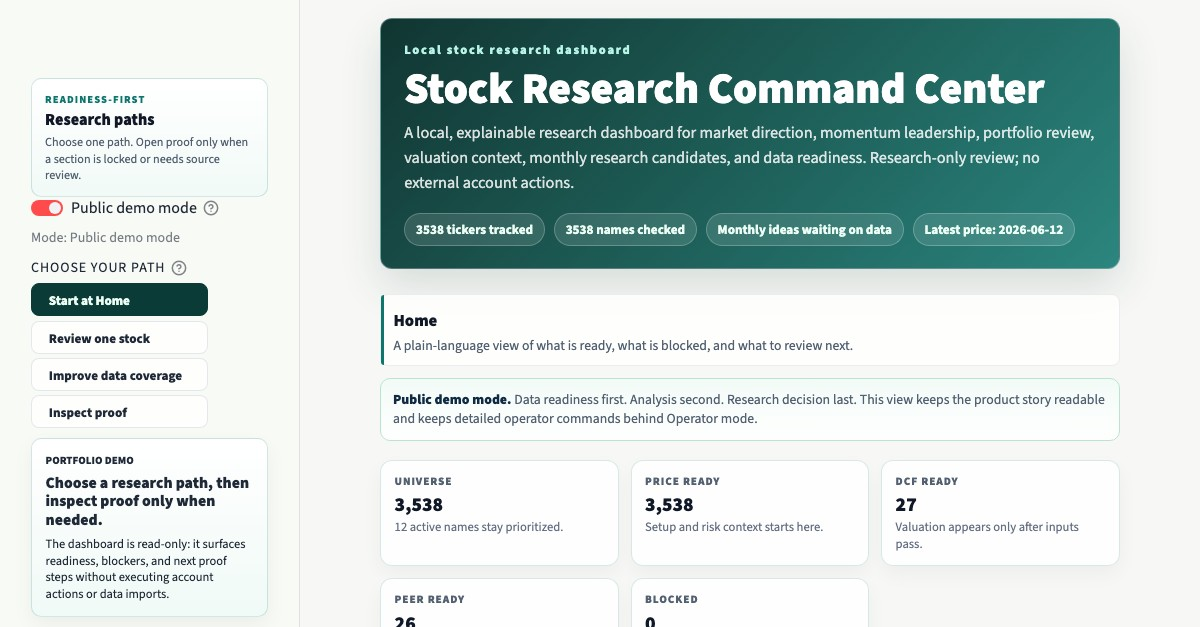
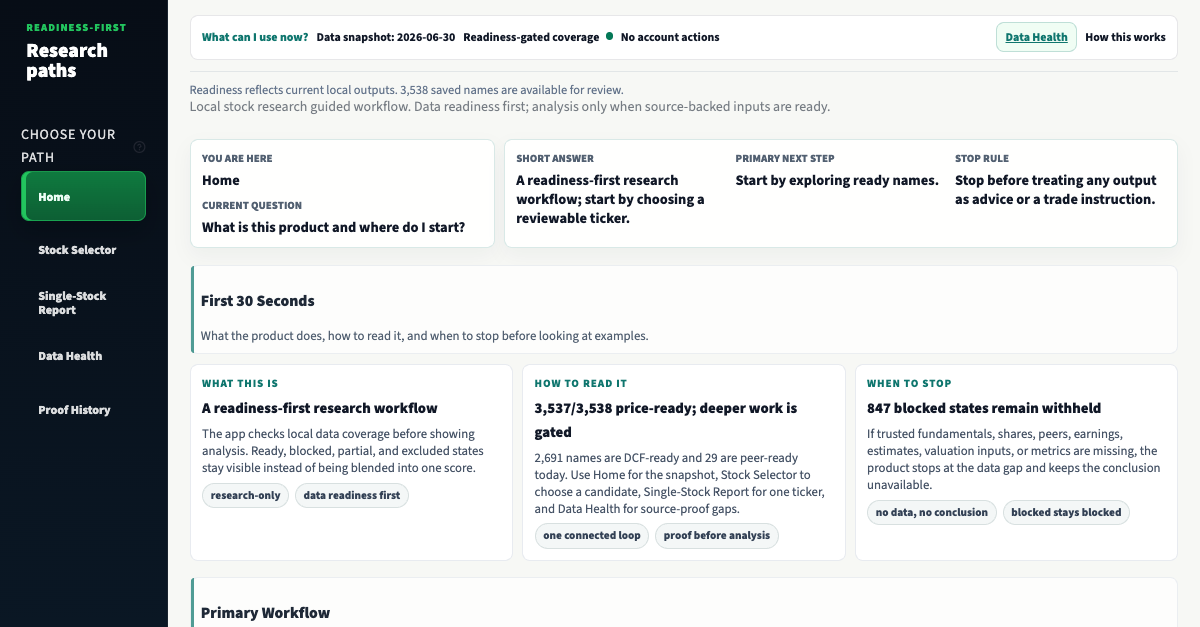
Refresh public share preview package

diff --git a/tests/test_browser_qa_evidence.py b/tests/test_browser_qa_evidence.py
@@ -63,7 +63,7 @@ def test_browser_qa_evidence_rows_keep_routes_assets_and_boundaries_visible(tmp_
             name="Public dashboard",
             path=Path("docs/assets/linkedin-public-dashboard.png"),
             route="http://localhost:8501/?mode=public",
-            expected_markers=("research-loop-strip", "Public visitor mode"),
+            expected_markers=("research-loop-strip", "What can I use now?"),
             min_width=1200,
             min_height=600,
             use="LinkedIn thumbnail.",
@@ -77,6 +77,7 @@ def test_browser_qa_evidence_rows_keep_routes_assets_and_boundaries_visible(tmp_
     assert rows[0]["Dimensions"].startswith("1200x627")
     assert "localhost:8501/?mode=public" in rendered
     assert "research-loop-strip" in rendered
+    assert "what can i use now?" in rendered
     assert "linkedin thumbnail" in rendered
     assert "buy" not in rendered
     assert "sell" not in rendered
@@ -92,7 +93,7 @@ def test_browser_qa_evidence_verdict_blocks_missing_or_small_assets(tmp_path):
             name="Small asset",
             path=Path("docs/assets/small.png"),
             route="http://localhost:8501/?mode=public",
-            expected_markers=("Public visitor mode",),
+            expected_markers=("What can I use now?",),
             min_width=1200,
             min_height=600,
             use="Too small for public evidence.",

diff --git a/src/browser_qa_evidence.py b/src/browser_qa_evidence.py
@@ -45,7 +45,7 @@ DEFAULT_BROWSER_QA_EVIDENCE: tuple[BrowserQaEvidence, ...] = (
         name="LinkedIn public dashboard thumbnail",
         path=Path("docs/assets/linkedin-public-dashboard.png"),
         route="http://localhost:8501/?mode=public",
-        expected_markers=("research-loop-strip", "Public visitor mode", "First 30 Seconds", "Primary Workflow"),
+        expected_markers=("research-loop-strip", "What can I use now?", "First 30 Seconds", "Primary Workflow"),
         min_width=1200,
         min_height=600,
         use="LinkedIn Featured and GitHub preview image.",
@@ -118,7 +118,7 @@ DEFAULT_BROWSER_QA_ROUTE_CHECKS: tuple[BrowserQaRouteCheck, ...] = (
     BrowserQaRouteCheck(
         name="Public visitor home",
         route="http://localhost:8501/?mode=public",
-        first_view_markers=("research-loop-strip", "Public visitor mode", "First 30 Seconds", "Primary Workflow"),
+        first_view_markers=("research-loop-strip", "What can I use now?", "First 30 Seconds", "Primary Workflow"),
         details_boundary="Operator commands and proof tables stay out of the first public view.",
         qa_focus="Visitor understands readiness-first workflow and research-only boundary in under 30 seconds.",
         stop_rule="Stop if the first view shows raw CSV tables, command-heavy copy, traceback text, or stale generated-thumbnail proof.",

diff --git a/docs/LINKEDIN_PROJECT_BRIEF.md b/docs/LINKEDIN_PROJECT_BRIEF.md
@@ -35,11 +35,33 @@ The most important design choice was refusing to present every ticker as complet
 
 GitHub: https://github.com/YuzeJ21/Stock-Analysis
 
-LinkedIn Featured title: `Stock Research Command Center - Readiness-First Research Dashboard`
+## Copy/Paste LinkedIn Profile Updates
 
-LinkedIn Featured description: `A Python and Streamlit portfolio project that checks data readiness before showing stock research workflows. It separates ready, blocked, partial, and excluded states, keeps proof steps visible, and stays research-only with no broker integration or auto-trading.`
+LinkedIn Featured title:
+
+`Stock Research Command Center | Readiness-First Stock Research Workflow`
+
+LinkedIn Featured description:
+
+`A Python + Streamlit portfolio project that checks stock data readiness before showing analysis. It separates ready, blocked, partial, and excluded states, keeps source-proof steps visible, and stays research-only with no broker integration, auto-trading, or investment advice.`
+
+About-section sentence:
+
+`I also build portfolio projects that turn messy data-readiness problems into guided product workflows, including a readiness-first Stock Research Command Center for equity research review.`
+
+Optional LinkedIn post:
+
+`I have been building a Stock Research Command Center as a portfolio project. The core idea is simple: data readiness first, analysis second, research decision last. The app checks whether stock data is ready before showing analysis, separates ready / partial / blocked / excluded states, and keeps source-proof steps visible when inputs are missing. It is built with Python and Streamlit, and stays research-only: no broker integration, no auto-trading, no order routing, and no investment advice. This project reflects the kind of data-product work I care about: turning messy coverage, quality, and workflow problems into a guided user experience.`
+
+What not to claim:
+
+- Do not call it an investment-advice tool, stock picker, broker integration, execution system, account-action workflow, or data-freshness proof.
+- Do not imply blocked fundamentals, peer valuation, earnings, or analyst-estimate lanes are complete.
+- Do not describe the repository as open source or reusable software under the current controlled demo license.
 
 Featured thumbnail: use `docs/assets/linkedin-public-dashboard.png`. It is a real product screenshot of the public visitor path; use `make status-check TOP_N=5` for current local readiness counts because screenshot counts can become stale after local refresh/import work. Keep `docs/assets/operator-data-health-metrics-real.jpg` only for deeper operator-mode discussion.
+
+LinkedIn can cache older GitHub preview images. If the Featured card still shows the old screenshot after GitHub is pushed, remove and re-add the Featured link, or refresh the URL through LinkedIn's post inspector before adding it again.
 
 ## Resume Bullet Options
 

diff --git a/README.md b/README.md
@@ -176,4 +176,4 @@ The app is organized around dashboard, readiness, decision, report, provider, lo
 
 ## Roadmap Snapshot
 
-The next product stage is not more indicators. It is a cleaner guided pilot path: each public page should answer one question first, show one primary next step, and keep proof ledgers, command blocks, route maps, and raw tables behind Advanced or Operator details. Data Health remains the repair surface for blocked lanes, but the public workflow should stay Home -> Stock Selector -> Single-Stock Report -> Data Health -> Proof History. Fundamentals/DCF, source-backed peers, and optional earnings/estimate context stay locked until trusted rows prove readiness.
+The current public workflow is intentionally guided: Home -> Stock Selector -> Single-Stock Report -> Data Health -> Proof History. The next product stage is tighter pilot polish rather than more indicators: keep the LinkedIn/GitHub preview current, make Data Health lane details easier to expand without opening raw tables first, and activate trusted provider/source rows only through validation, preview, rejected-row review, rebuilt readiness, and proof history. Fundamentals/DCF, source-backed peers, and optional earnings/estimate context stay locked until trusted rows prove readiness.
